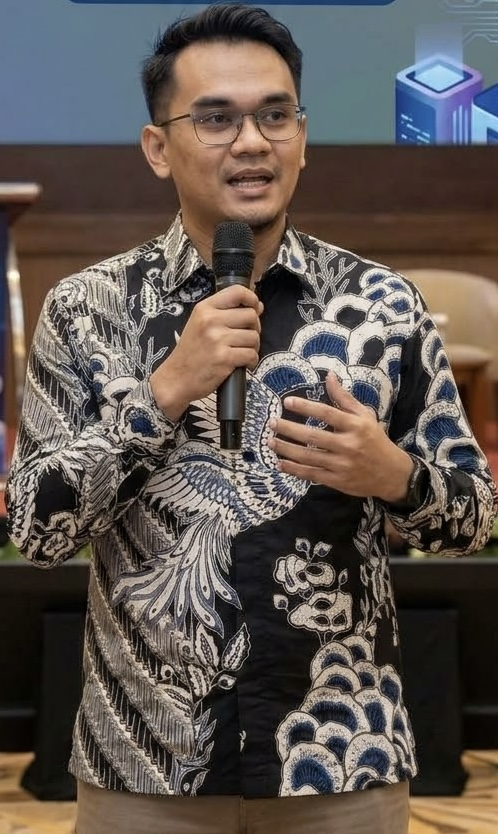
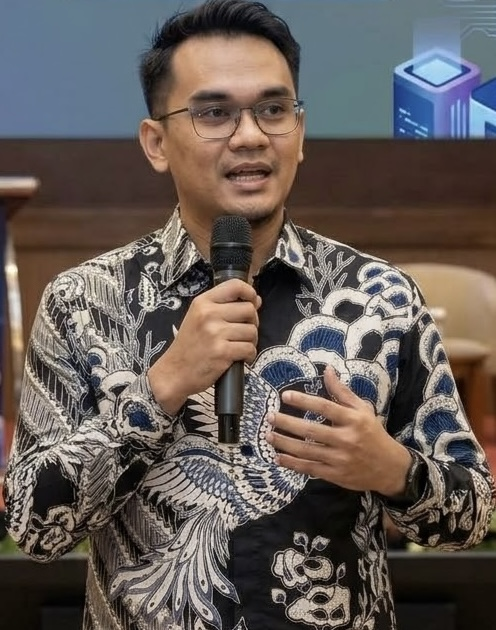
rebuild

diff --git a/default.html b/default.html
@@ -1,0 +1,44 @@
+<!doctype html>
+<html lang="{{ site.lang | default: "en-US" }}">
+  <head>
+    <meta charset="utf-8">
+    <meta http-equiv="X-UA-Compatible" content="IE=edge">
+    <title>{% if site.title and page.title != site.title %}{{ page.title }} | {{ site.title }}{% else %}{{ site.title }}{% endif %}</title>
+    <link rel="stylesheet" href="{{ '/assets/css/style.css?v=' | append: site.github.build_revision | relative_url }}">
+    <meta name="viewport" content="width=device-width, initial-scale=1">
+    <style>
+      /* Menu under the profile photo */
+      .side-nav { margin: 18px 0 0; }
+      .side-nav a { display: block; padding: 4px 0; font-weight: 500; }
+    </style>
+  </head>
+  <body>
+    <div class="wrapper">
+      <header>
+        <h1><a href="{{ '/' | relative_url }}">{{ site.title }}</a></h1>
+
+        {% if site.logo %}
+          <img src="{{ site.logo | relative_url }}" alt="{{ site.title }}" />
+        {% endif %}
+
+        <p>{{ site.description }}</p>
+
+        <!-- Menu is defined in _config.yml under "menu:" -->
+        <nav class="side-nav">
+          {% for item in site.menu %}
+            <a href="{{ item.url }}">{{ item.title }}</a>
+          {% endfor %}
+        </nav>
+      </header>
+
+      <section>
+        {{ content }}
+      </section>
+
+      <footer>
+        <p><small>Hosted on GitHub Pages &mdash; Theme by <a href="https://github.com/orderedlist">orderedlist</a></small></p>
+      </footer>
+    </div>
+    <script src="{{ '/assets/js/scale.fix.js' | relative_url }}"></script>
+  </body>
+</html>

diff --git a/index.md b/index.md
@@ -4,19 +4,14 @@ title: Short Biography
 
 <!--
   HOW TO MAINTAIN THIS FILE
-  - Name, photo and tagline in the sidebar come from _config.yml (title, description, logo).
-  - "## Heading"  = a main section. To add/remove a section: add/delete the block AND its line in the menu below.
+  - Name, photo, tagline and the menu under the photo come from _config.yml (title, description, logo, menu).
+  - "## Heading"  = a main section. To add/remove a section: add/delete the block here AND its entry under "menu:" in _config.yml.
   - "### Heading" = a sub-section inside a section.
   - One "- " bullet = one item (award, talk, degree, project). Copy a line to add one, delete a line to remove it.
   - Keep newest items first in each list.
 -->
 
 [Instagram](https://instagram.com/agzulvani) · [LinkedIn](https://www.linkedin.com/in/aguszulvani/)
-
-- [Projects](#projects)
-- [Awards](#awards)
-- [Education](#education)
-- [Speaking](#speaking)
 
 ## Short Biography
 
@@ -50,7 +45,7 @@ Agus Zulvani is a Software Engineer and Computer Vision enthusiast with over 10 
 
 <!--
   OPTIONAL SECTION TEMPLATE
-  Uncomment, edit, and add "- [Contact](#contact)" to the menu at the top.
+  Uncomment, edit, and add a Contact entry (url: "#contact") under "menu:" in _config.yml.
 
 ## Contact
 
